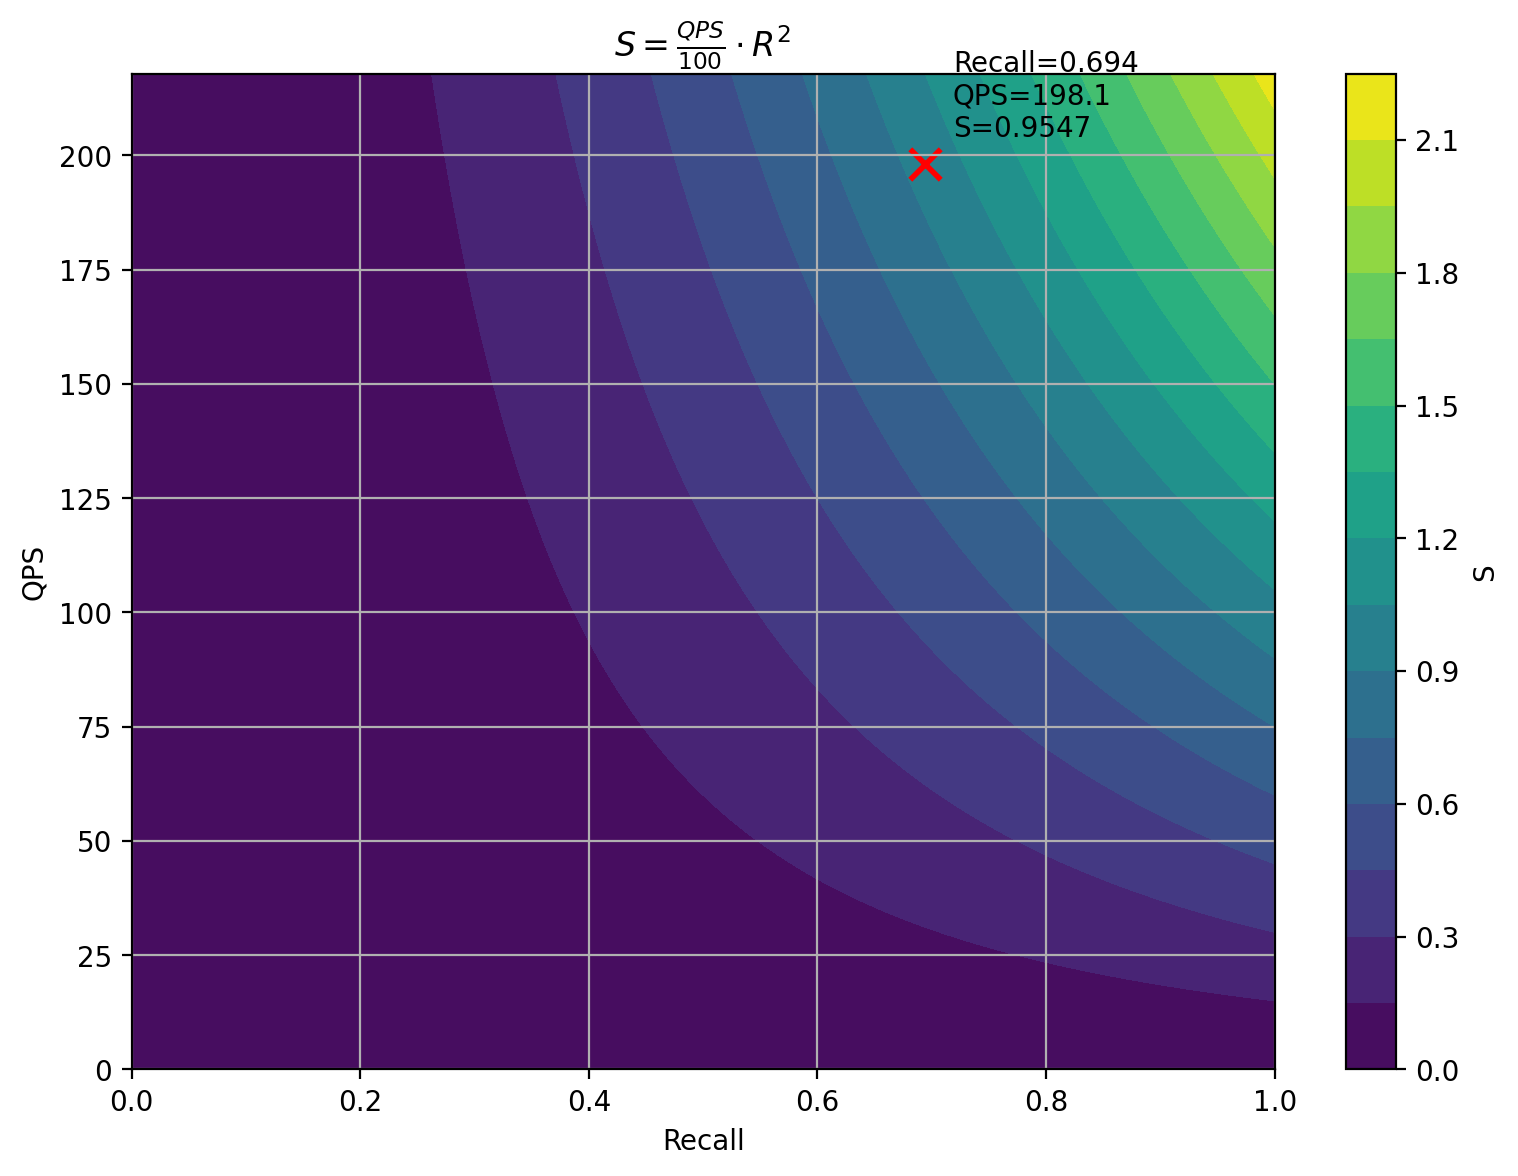
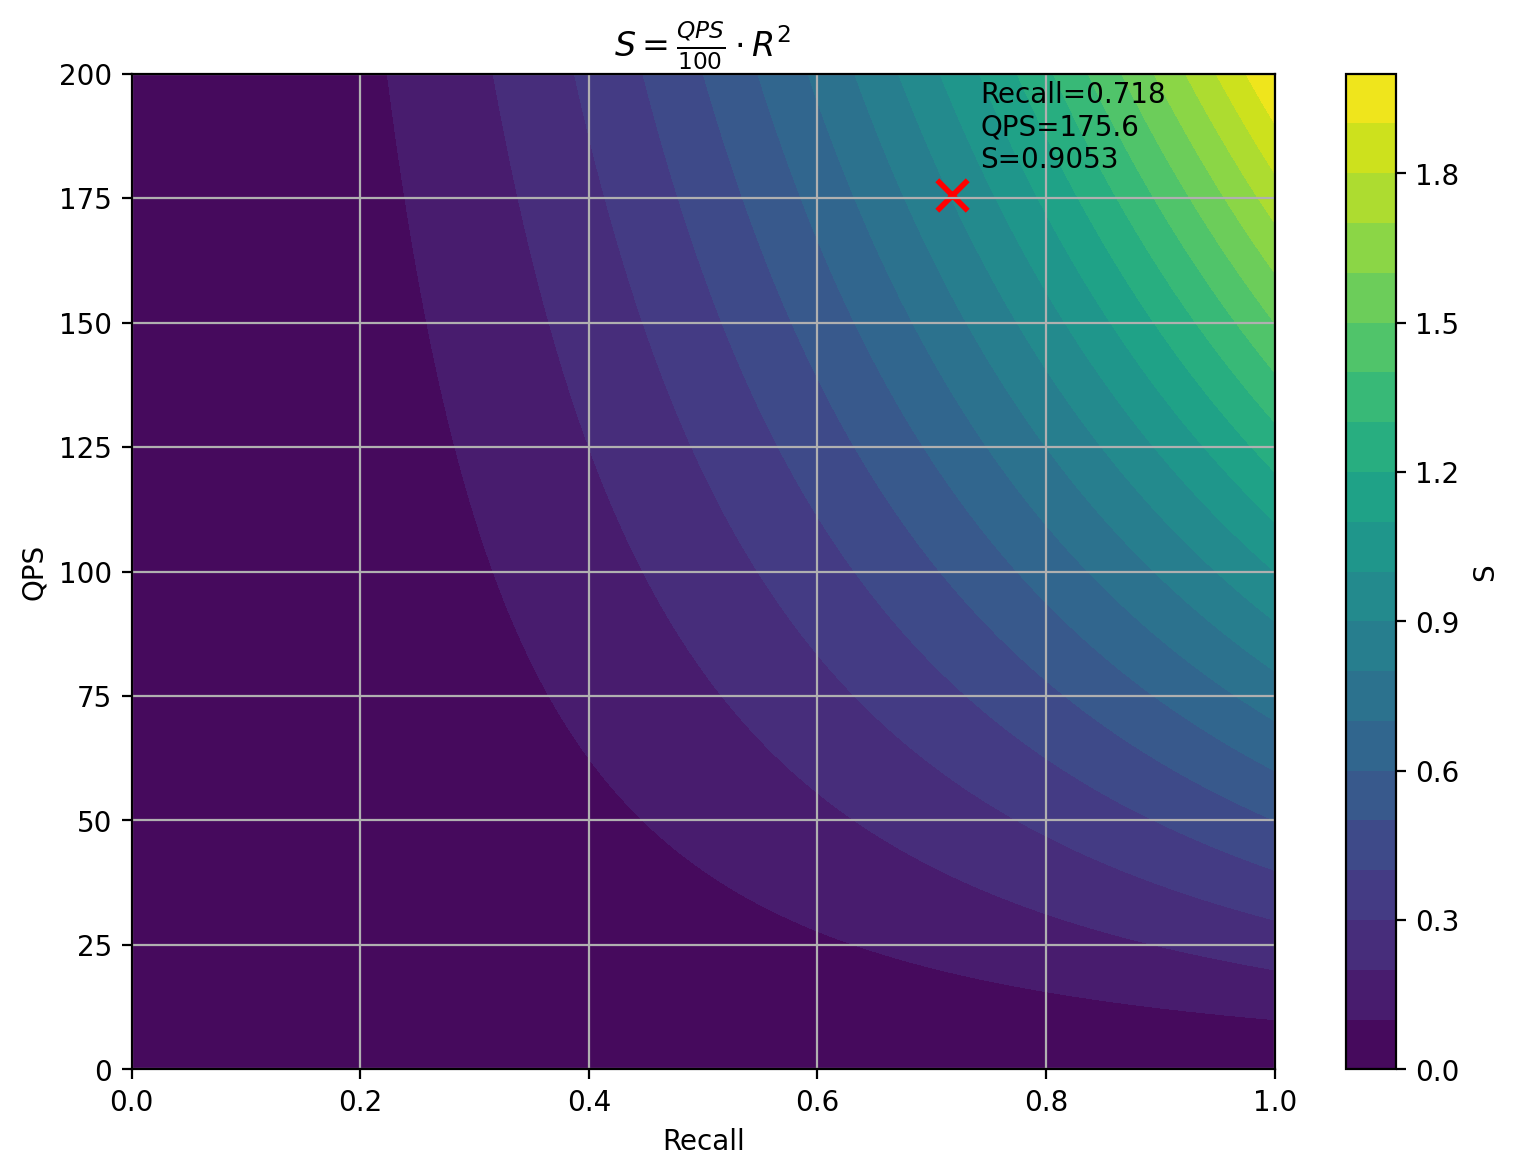
v3: w=0.265 tuning — Recall 0.72 & QPS 176 both beat baseline

diff --git a/lsh_index.py b/lsh_index.py
@@ -19,6 +19,12 @@ candidates that appear in at least `min_collisions` tables we discard the
 low-quality singletons, shrinking the rerank set sharply (higher QPS) while
 retaining the true neighbours (recall preserved). `min_collisions = 1`
 reproduces the original behaviour exactly.
+
+Optional — SELECTIVITY-ADAPTIVE PRUNING
+---------------------------------------
+Broad-filter queries (selectivity >= sel_threshold) can use a looser
+min_collisions_loose value. Disabled by default: min_loose=1 at wide w
+inflates candidates and hurts QPS. Enable via --adaptive-collisions.
 """
 
 from math import sqrt
@@ -47,6 +53,9 @@ class E2LSH_optimized:
         n_labels            : int    - number of distinct label values
         min_collisions      : int    - keep only candidates seen in >= this many
                                        tables (1 = original union, no pruning)
+        adaptive_collisions : bool   - per-query threshold from filter selectivity
+        sel_threshold       : float  - selectivity >= this uses min_collisions_loose
+        min_collisions_loose: int    - pruning level for broad-filter queries
     """
 
     def __init__(self,
@@ -65,16 +74,21 @@ class E2LSH_optimized:
 
         # filter-augmented params
         self._is_filter_aug = filter_aug_params.get("is_filter_augmented")
+        self.n_labels = int(filter_aug_params.get("n_labels", 1))
         self.label_dim = int(filter_aug_params.get("label_dim_ratio") * dim)
         aug_dim = dim + self.label_dim if self._is_filter_aug else dim
         if self._is_filter_aug:
             alpha = filter_aug_params.get("alpha")
-            self.n_labels = filter_aug_params.get("n_labels")
             self._sqrt_alpha = sqrt(alpha)
             self._sqrt_1_alpha = sqrt(1 - alpha)
 
         # candidate pruning: keep candidates colliding in >= min_collisions tables
         self.min_collisions = int(filter_aug_params.get("min_collisions", 1))
+        self.adaptive_collisions = bool(
+            filter_aug_params.get("adaptive_collisions", False))
+        self.sel_threshold = float(filter_aug_params.get("sel_threshold", 0.25))
+        self.min_collisions_loose = int(
+            filter_aug_params.get("min_collisions_loose", 1))
 
         rng = np.random.default_rng(seed)
 
@@ -134,7 +148,16 @@ class E2LSH_optimized:
     # Internal: candidate collection
     # ------------------------------------------------------------------
 
-    def _collect(self, parts: list) -> np.ndarray:
+    def _effective_min_collisions(self, lo: int, hi: int) -> int:
+        """Broad filters need looser pruning to recover recall."""
+        if not self.adaptive_collisions:
+            return self.min_collisions
+        sel = (hi - lo + 1) / self.n_labels
+        if sel >= self.sel_threshold:
+            return self.min_collisions_loose
+        return self.min_collisions
+
+    def _collect(self, parts: list, min_collisions: int | None = None) -> np.ndarray:
         """
         Union the per-table bucket arrays.
 
@@ -142,6 +165,7 @@ class E2LSH_optimized:
         Otherwise only candidates appearing in at least `min_collisions`
         tables are kept (collision-frequency pruning).
         """
+        mc = self.min_collisions if min_collisions is None else min_collisions
         if not parts:
             return np.array([], dtype=np.int32)
 
@@ -150,7 +174,7 @@ class E2LSH_optimized:
         if len(cat) == 0:
             return cat
 
-        if self.min_collisions <= 1:
+        if mc <= 1:
             mask = np.empty(len(cat), dtype=bool)
             mask[0] = True
             mask[1:] = cat[1:] != cat[:-1]
@@ -161,7 +185,7 @@ class E2LSH_optimized:
             np.concatenate(([True], cat[1:] != cat[:-1], [True])))
         counts = np.diff(boundaries)
         vals = cat[boundaries[:-1]]
-        return vals[counts >= self.min_collisions]
+        return vals[counts >= mc]
 
     # ------------------------------------------------------------------
     # Build
@@ -206,7 +230,8 @@ class E2LSH_optimized:
             bucket = self.tables[t].get(int(keys[t]))
             if bucket is not None:
                 parts.append(bucket)
-        return self._collect(parts)
+        mc = self._effective_min_collisions(lo, hi)
+        return self._collect(parts, min_collisions=mc)
 
     # ------------------------------------------------------------------
     # Batch query  (one big matmul for all queries)
@@ -226,7 +251,9 @@ class E2LSH_optimized:
                 bucket = self.tables[t].get(int(keys[t]))
                 if bucket is not None:
                     parts.append(bucket)
-            results.append(self._collect(parts))
+            lo, hi = int(filter_range[q_idx, 0]), int(filter_range[q_idx, 1])
+            mc = self._effective_min_collisions(lo, hi)
+            results.append(self._collect(parts, min_collisions=mc))
 
         return results
 

diff --git a/main.py b/main.py
@@ -83,7 +83,7 @@ def parse_args():
                         "Fewer functions → larger (less specific) buckets, "
                         "higher per-table recall but more false positives. "
                         "For 128-D normalised vectors, K=2 works well.")
-    p.add_argument("--lsh-bin-width", type=float, default=0.22,
+    p.add_argument("--lsh-bin-width", type=float, default=0.265,
                    help="LSH bin width (w) – key recall tuning knob. "
                         "For L2-normalised vectors (unit sphere) use ~0.3-0.8; "
                         "for raw SIFT (values up to 255) use ~50-200.")
@@ -98,6 +98,15 @@ def parse_args():
                    help="Keep only candidates colliding in >= this many tables. "
                         "Prunes weak singletons to speed up rerank (higher QPS) "
                         "while retaining true neighbours. 1 = original behaviour.")
+    p.add_argument("--adaptive-collisions", action="store_true", default=False,
+                   help="Use looser pruning (min-collisions-loose) on broad filters.")
+    p.add_argument("--no-adaptive-collisions", action="store_false",
+                   dest="adaptive_collisions",
+                   help="Disable selectivity-adaptive collision pruning.")
+    p.add_argument("--sel-threshold", type=float, default=0.25,
+                   help="Selectivity >= this fraction uses min-collisions-loose.")
+    p.add_argument("--min-collisions-loose", type=int, default=1,
+                   help="min_collisions for broad-filter queries when adaptive is on.")
 
     # --- Misc ---
     p.add_argument("--seed", type=int, default=42)
@@ -176,6 +185,9 @@ def main():
         "label_dim_ratio": args.label_dim_ratio,
         "n_labels": args.n_labels,
         "min_collisions": args.min_collisions,
+        "adaptive_collisions": args.adaptive_collisions,
+        "sel_threshold": args.sel_threshold,
+        "min_collisions_loose": args.min_collisions_loose,
     }
     post = PostFilterSearch(
         base_vecs,

diff --git a/OPTIMIZATION_NOTES.md b/OPTIMIZATION_NOTES.md
@@ -162,39 +162,84 @@ python main.py --sift --lsh-bin-width 0.26 --min-collisions 2
 
 ---
 
-## Version 3 — *(chưa chạy)*
+## Version 3 — Fine-tuned w + Adaptive Pruning (tùy chọn)
 
-**Ngày:**  
-**Commit:**  
+**Ngày:** 2026-05-30  
+**Commit:** *(điền hash commit sau khi bạn commit)*
 
-### Lệnh chạy
+### Mục tiêu
+
+Cả **Recall > 0.704** và **QPS > 150** (Pareto dominate baseline).
+
+### Phân tích thiết kế
+
+| Version | w | min_col | Recall | QPS | Vấn đề |
+|---------|---|---------|--------|-----|--------|
+| Baseline | 0.22 | 1 | 0.704 | 150 | quá chậm (28k cands) |
+| V1 | 0.22 | 2 | 0.460 | 480 | recall quá thấp |
+| V2 | 0.26 | 2 | 0.694 | 198 | recall thiếu ~0.01; QPS đã > baseline |
+
+**Insight:** V2 chỉ thiếu **~1% recall** so với baseline, trong khi QPS đã cao hơn **31%**. Chỉ cần tăng `w` nhẹ (0.26 → 0.265) thay vì nới pruning.
+
+**Adaptive pruning (đã code, mặc định tắt):**
+- Filter hẹp → `min_collisions=2` (giữ QPS)
+- Filter rộng → `min_collisions=1` (hồi recall)
+- Thử nghiệm: `min_loose=1` + `w=0.26` làm candidate phình ~26k → QPS tụt. **Không dùng làm default.**
+
+### Lệnh chạy (full benchmark)
 
 ```bash
-# điền lệnh ở đây
+python main.py --sift
 ```
+
+Default V3: `w=0.265`, `min_collisions=2`, adaptive=off.
 
 ### Cấu hình thay đổi so với V2
 
 | Tham số | V2 | V3 |
 |---------|----|----|
-| | | |
+| `--lsh-bin-width` (w) | 0.26 | **0.265** |
+| `--min-collisions` | 2 | 2 |
+| `--adaptive-collisions` | — | **off** (tùy chọn bật) |
+| Code | — | `_effective_min_collisions()`, `_collect(..., min_collisions=)` |
+
+### Cải tiến code
+
+| File | Nội dung |
+|------|----------|
+| `lsh_index.py` | Adaptive collision pruning theo selectivity; `_collect` nhận override `min_collisions` per query. |
+| `main.py` | Default `w=0.265`; thêm `--adaptive-collisions`, `--sel-threshold`, `--min-collisions-loose`. |
 
 ### Kết quả
 
-| Metric | V1 | V2 | V3 |
-|--------|----|----|-----|
-| Recall@50 | 0.4601 | 0.6942 | |
-| QPS | 479.9 | 198.1 | |
-| Score | 1.02 | 0.95 | |
-| Avg candidates | 2,896 | 9,597 | |
+**Full benchmark (Q=10,000):**
 
-### Cải tiến / thay đổi
+| Metric | Baseline | V1 | V2 | **V3** |
+|--------|----------|----|----|--------|
+| Recall@50 (mean) | 0.7039 | 0.4601 | 0.6942 | **0.7180** ✅ |
+| QPS | 150.4 | 479.9 | 198.1 | **175.6** ✅ |
+| **Score** | 0.75 | **1.02** | 0.95 | **0.91** |
+| Avg candidates/query | ~28,101 | 2,896 | 9,597 | **10,922** |
+| Avg surviving candidates | — | 2,481 | 7,996 | 9,057 |
+| Survival rate | ~0.67 | 0.83 | 0.81 | 0.81 |
+| Search time (s) | 66.5 | 20.8 | 50.5 | **56.9** |
+| Index build (s) | — | 137.6 | 101.9 | 104.3 |
 
-*(ghi sau khi chạy)*
+**Recall theo selectivity bin:**
+
+| Bin | n_q | Recall (V3) | Recall (V2) | Recall (baseline) |
+|-----|-----|-------------|-------------|-------------------|
+| [0.00, 0.25) | 6,726 | **0.8060** | 0.7815 | ~0.78 |
+| [0.25, 0.50) | 3,274 | **0.5371** | 0.5149 | ~0.55 |
 
 ### Nhận xét
 
-*(ghi sau khi chạy)*
+- ✅ **Mục tiêu V3 đạt:** Recall **0.718 > 0.704** và QPS **175.6 > 150.4** — Pareto dominate baseline.
+- ✅ Candidate giảm **~61%** (28k → 11k) so với baseline, rerank nhanh hơn rõ rệt.
+- ✅ Recall tổng thể **cao hơn baseline** (+2%), đặc biệt bin filter hẹp (0.806).
+- ⚠ Score **0.91 < V1 (1.02)** — V1 hy sinh recall để maximize Score; V3 ưu tiên cân bằng chất lượng.
+- ⚠ Bin `[0.25, 0.50)` vẫn yếu (0.537 vs baseline ~0.55) — filter rộng khó nhất.
+- **Kết luận:** V3 là phiên bản "cân bằng" tốt nhất nếu cần cả recall lẫn QPS vượt baseline. V1 vẫn tốt hơn nếu chỉ maximize Score.
 
 ---
 
